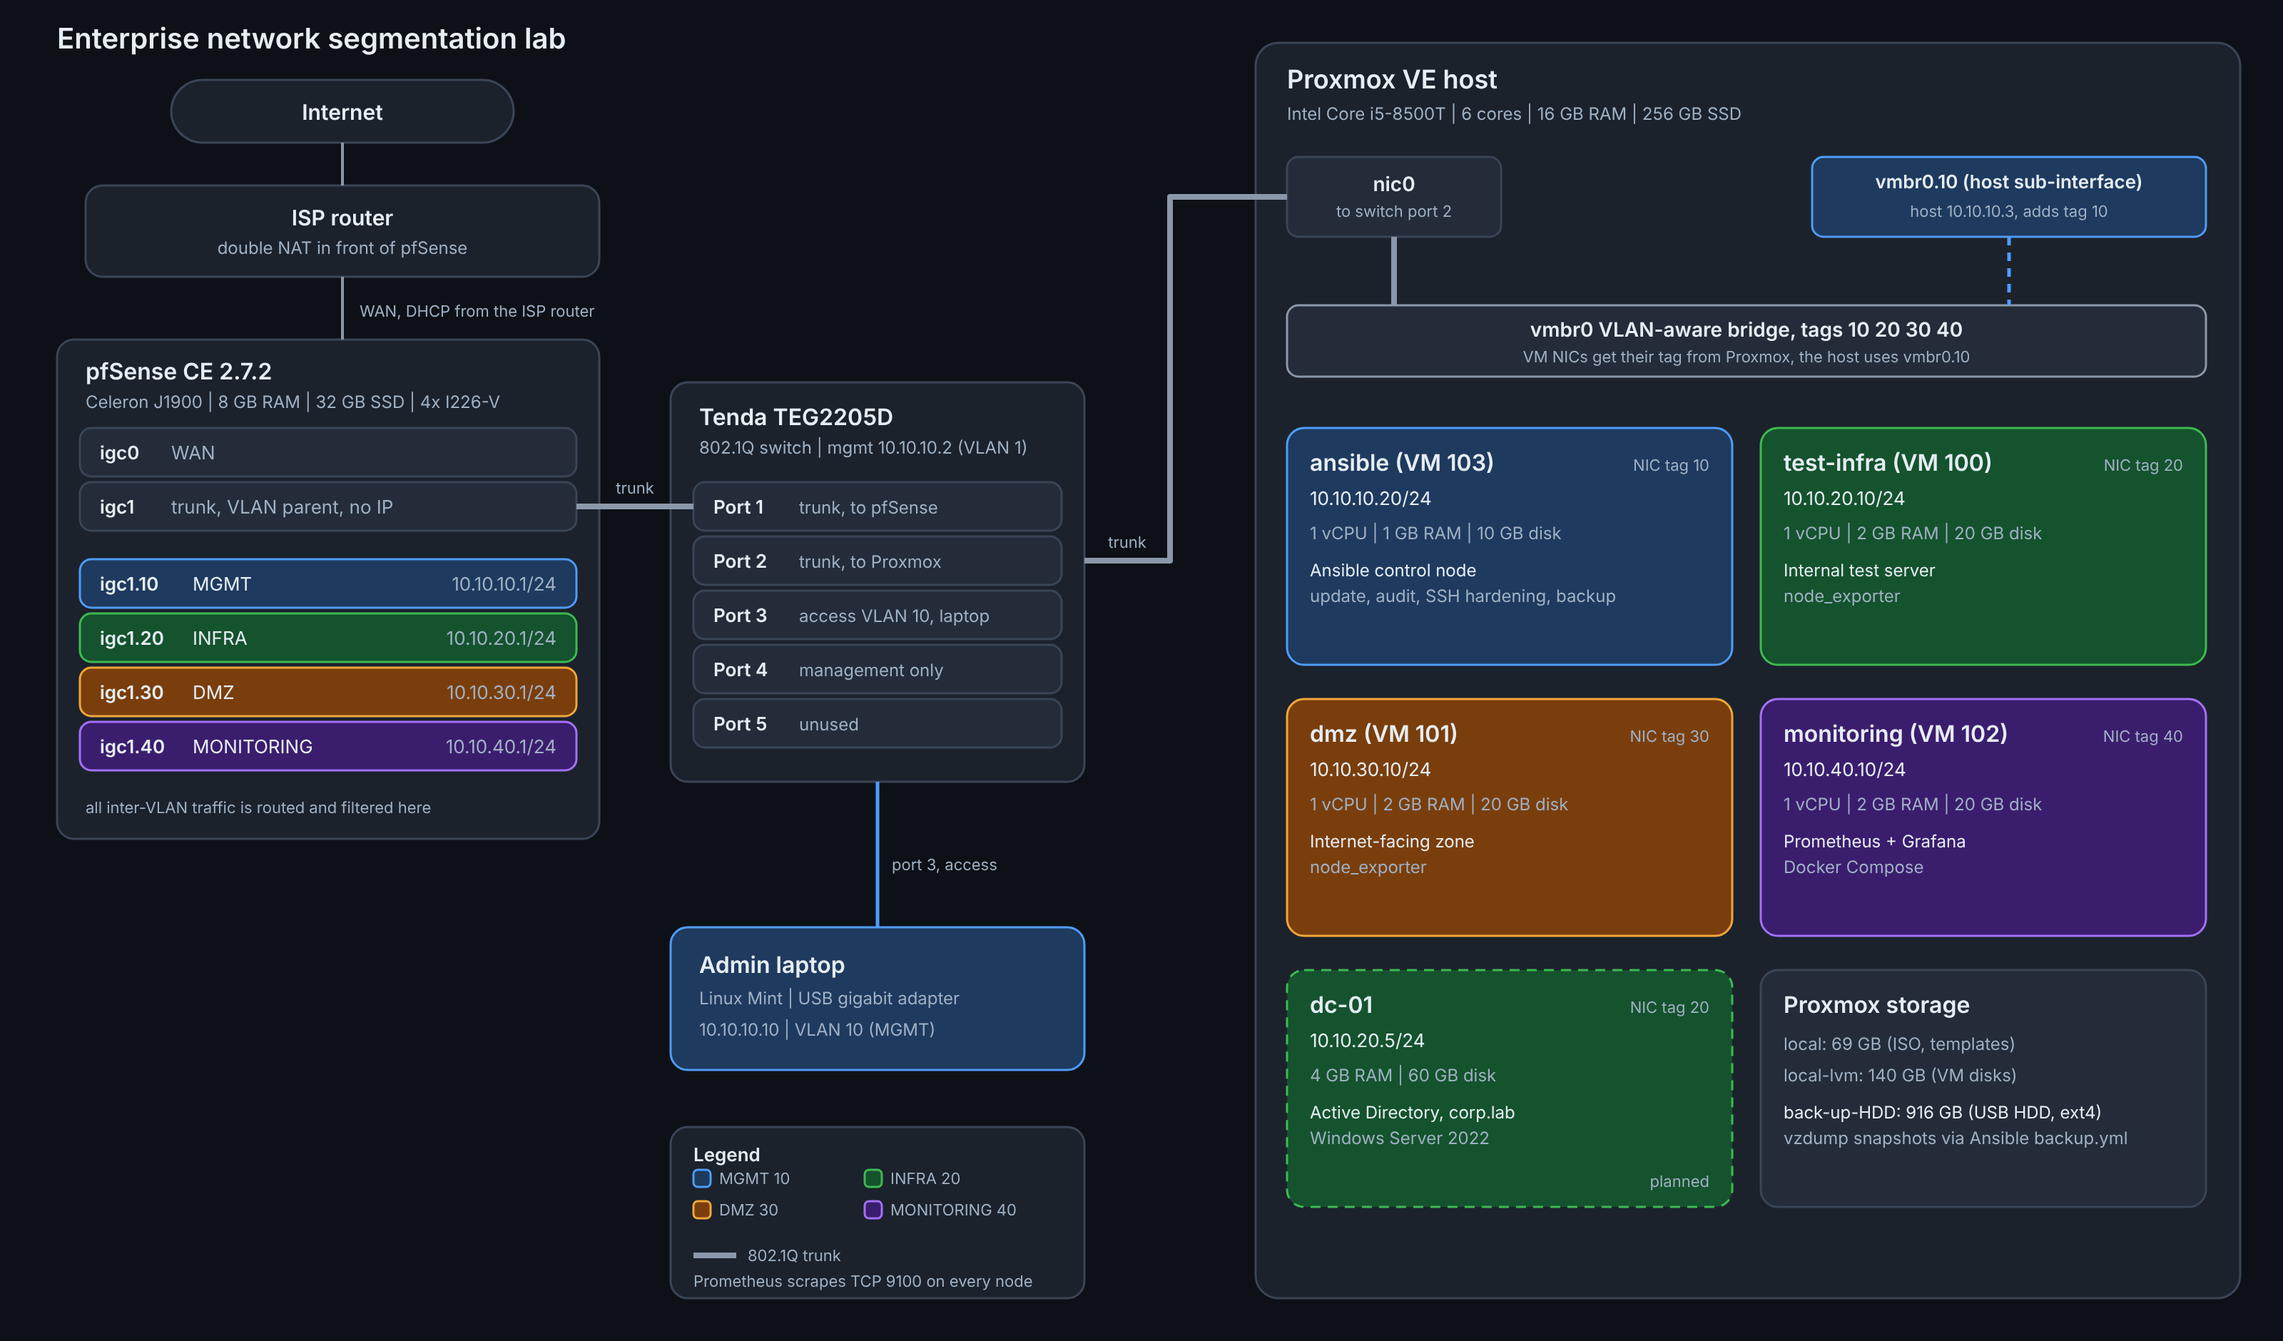
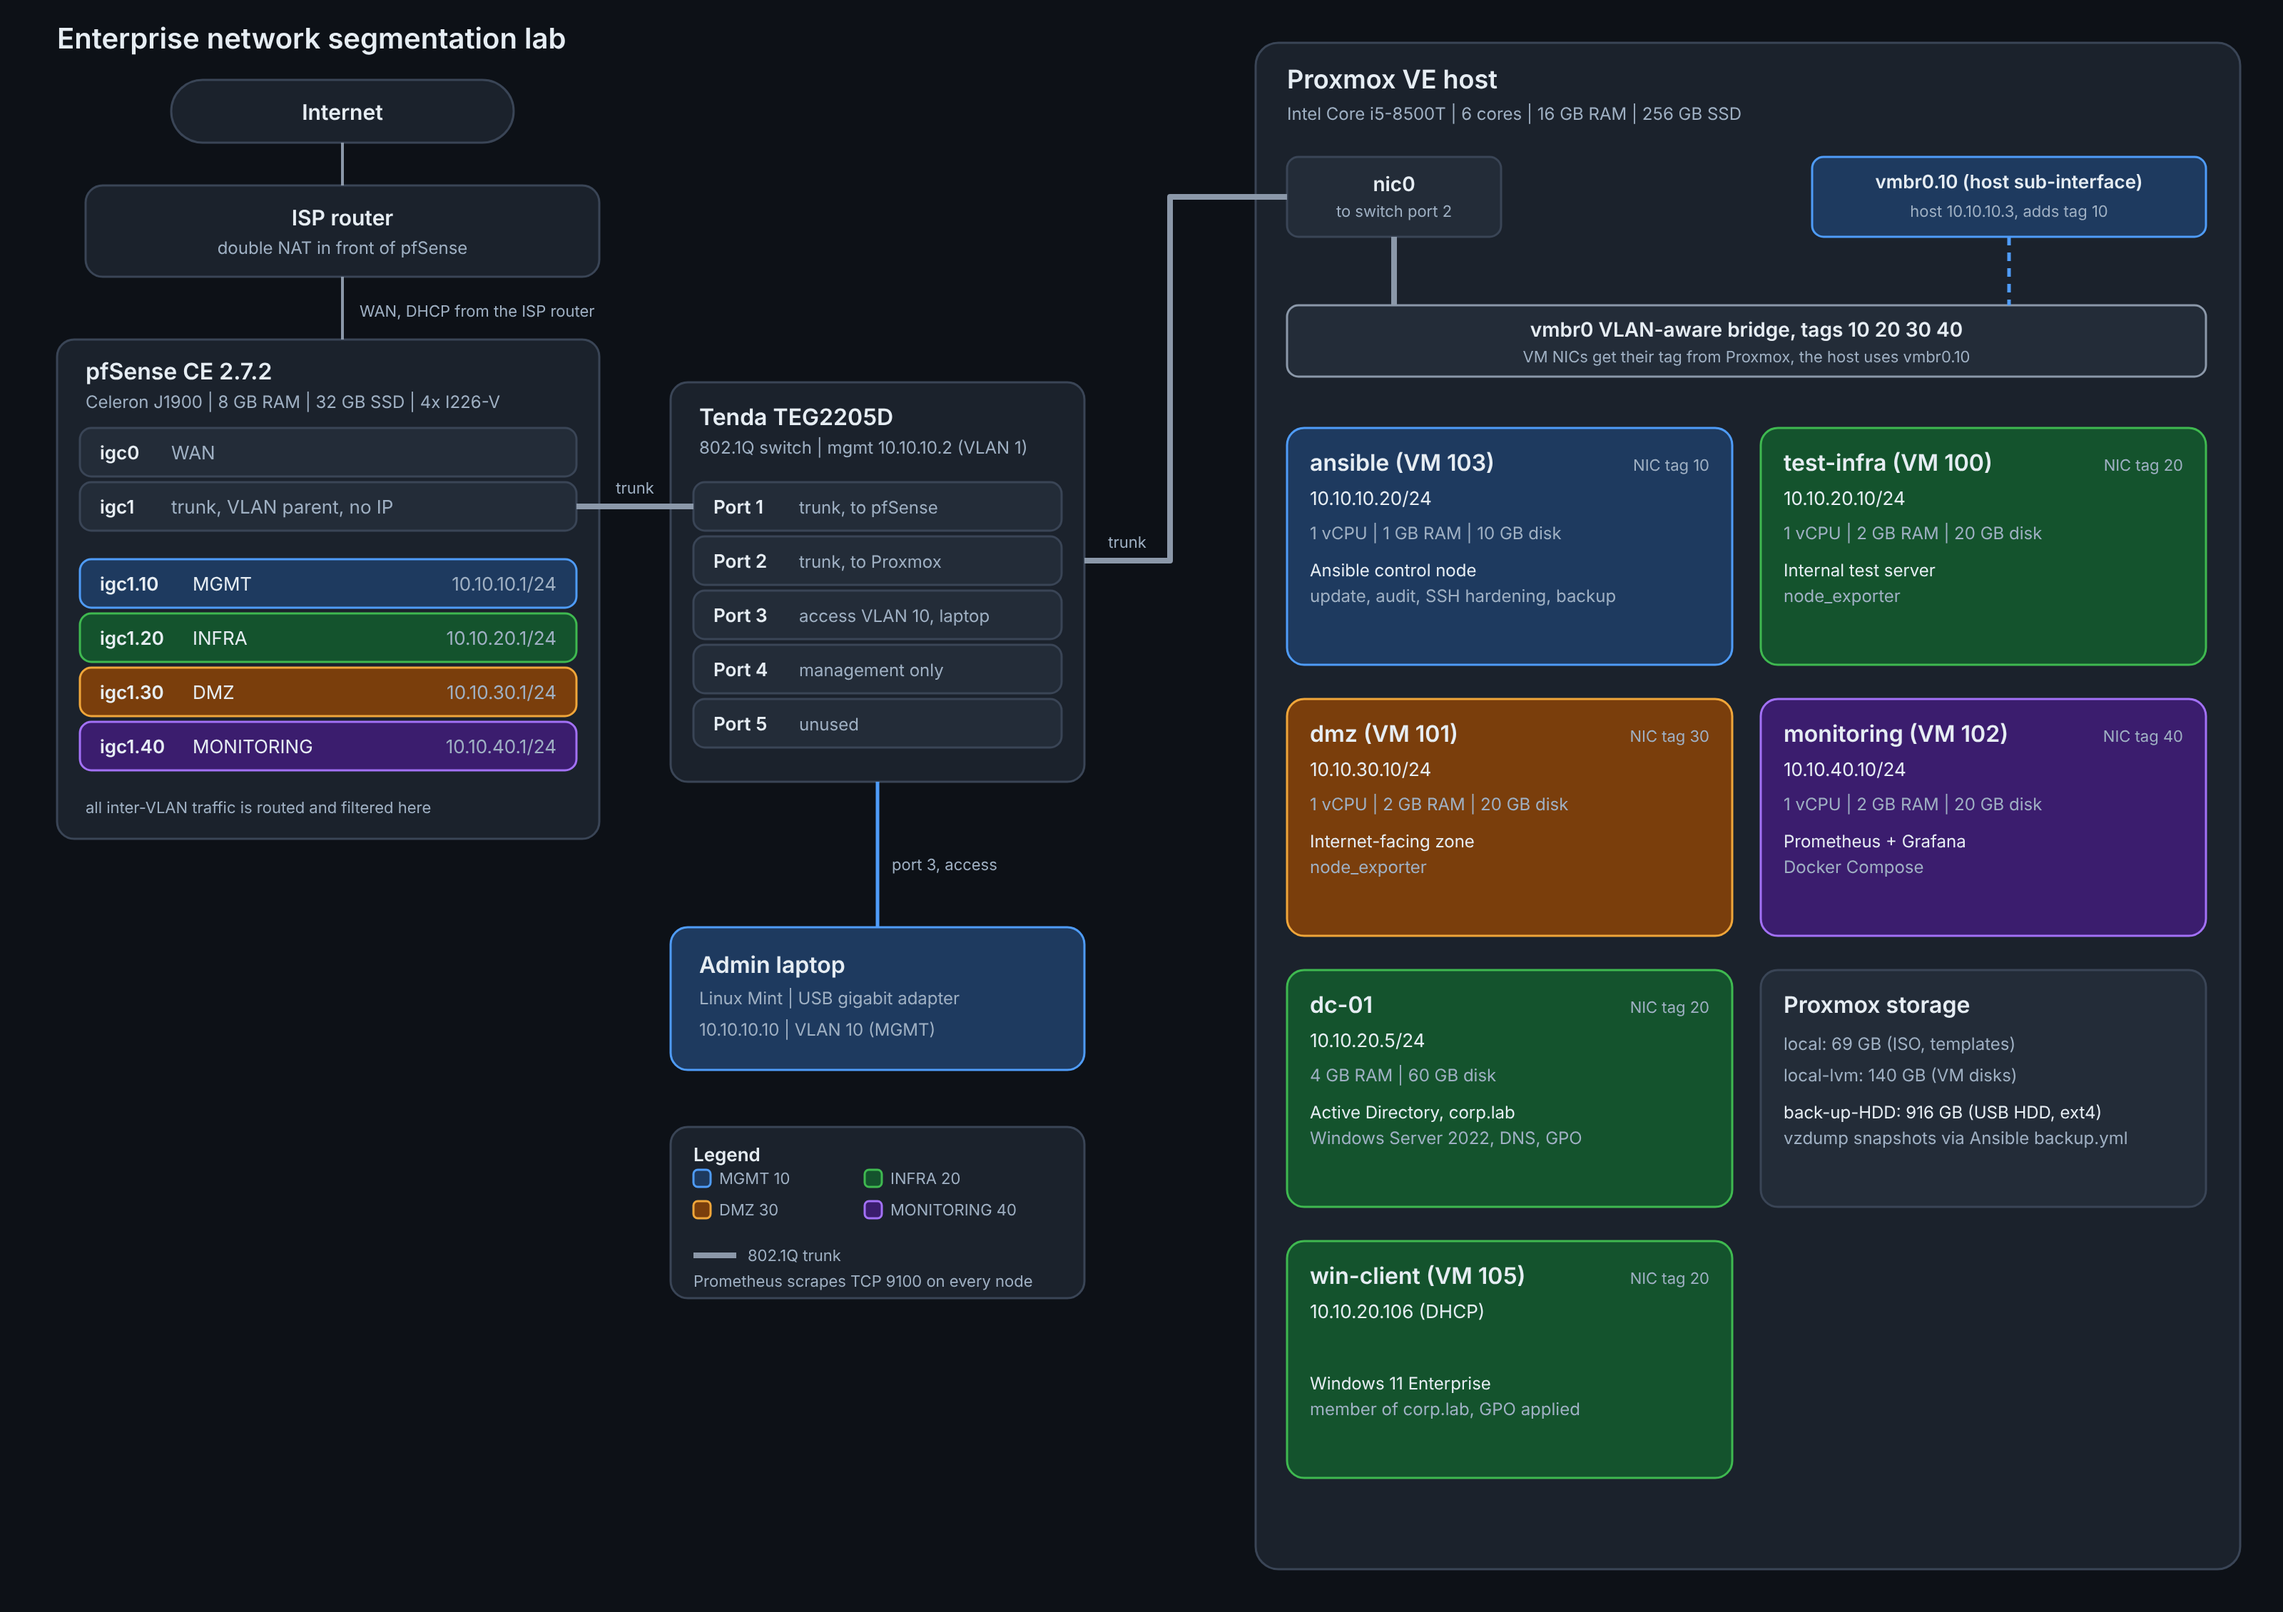
Update in README.md and diagram

diff --git a/README.md b/README.md
@@ -1,12 +1,14 @@
-# Enterprise Network Segmentation & Firewall Lab
+# Enterprise Network Infrastructure
 
-A small-office network built on real hardware: a pfSense firewall, a VLAN-capable managed switch and a Proxmox hypervisor. The lab implements zone-based segmentation with least-privilege firewall policy, centralized monitoring and documented verification of every rule.
+A small-office network built on real hardware: a pfSense firewall, a VLAN-capable managed switch and a Proxmox hypervisor. The lab implements zone-based segmentation with least-privilege firewall policy, centralized monitoring and documented verification of every rule. It also includes Ansible automation and an Active Directory domain.
 
 ## Goals
 
 - Segment a flat network into four security zones using 802.1Q VLANs.
 - Enforce inter-zone policy on a stateful firewall (default deny, narrow exceptions).
 - Monitor every node (hypervisor, VMs, firewall) with Prometheus and Grafana.
+- Automate routine administration with Ansible: patching, audit, SSH hardening, backups.
+- Run a Windows domain the way a small company would: OUs, groups, Group Policy, helpdesk delegation, role-based file access.
 - Prove the policy works with documented tests, and record the problems found along the way.
 
 ## Topology
